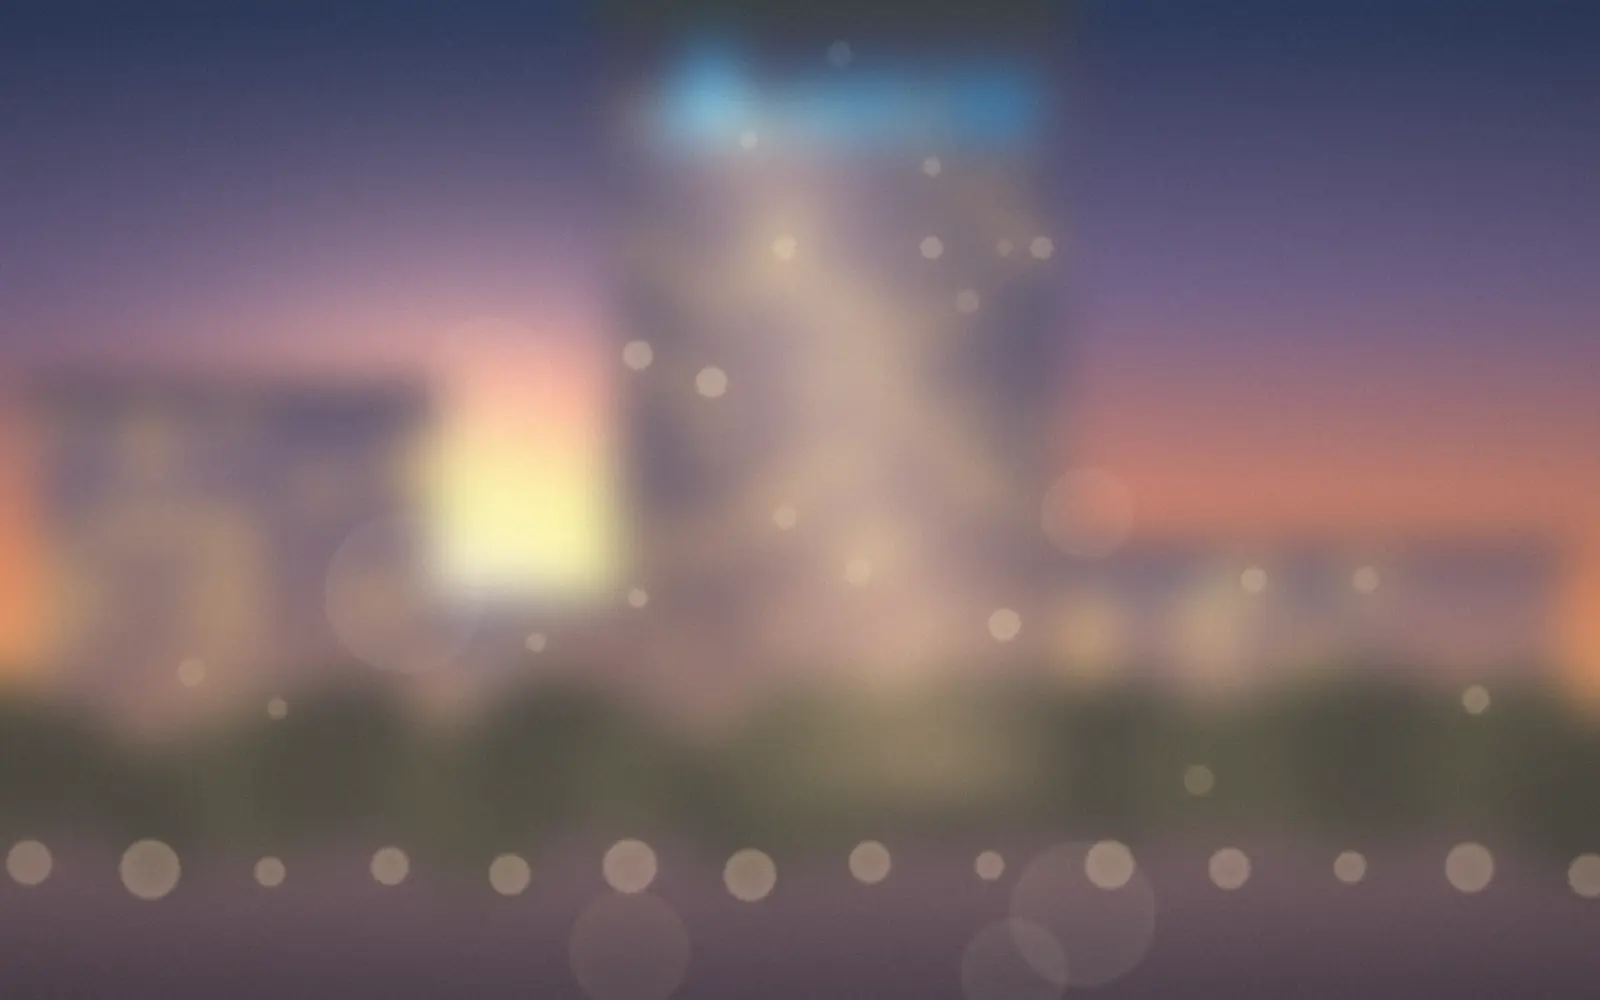
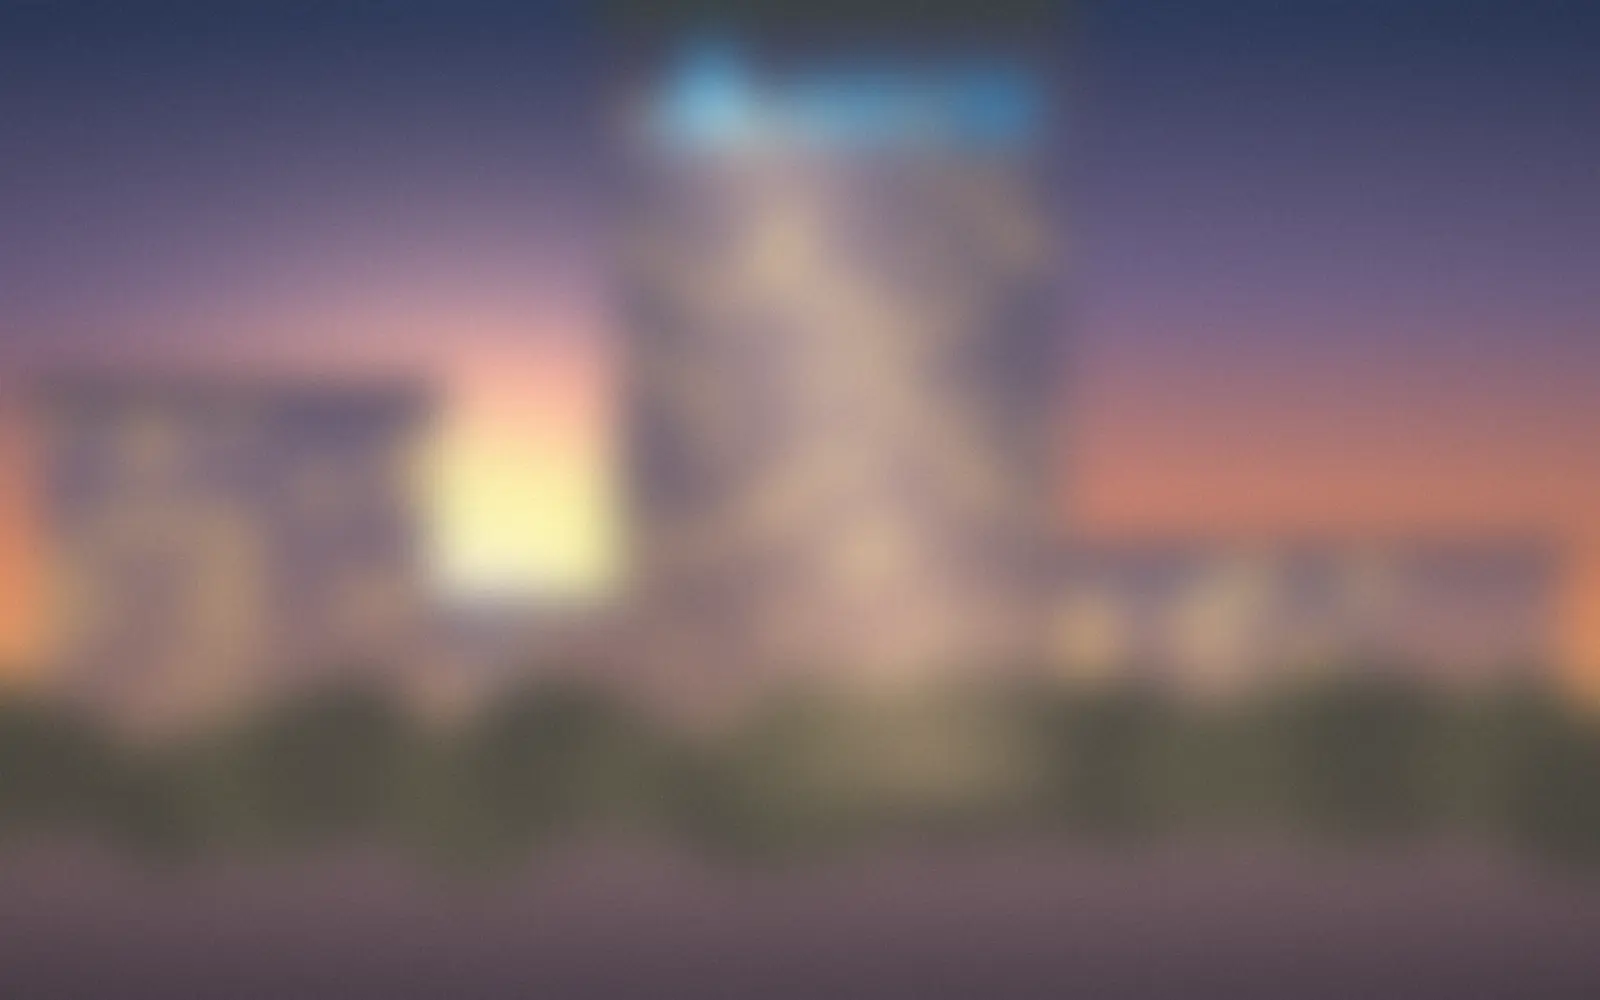
Drop bokeh discs from the Delta dusk and night backdrops, keep the starfield
Claude-Session: https://claude.ai/code/session_012e3ehTCd2ctkDdbYuLX2zr

diff --git a/scripts/render_delta_backdrop.py b/scripts/render_delta_backdrop.py
@@ -211,13 +211,12 @@ for name, t in TIMES.items():
         pd.ellipse([x - 2, y - 2, x + 2, y + 2], fill=tuple(int(v * 255) for v in hexc(c)))
     blurred = to_arr(plate.filter(ImageFilter.GaussianBlur(BLUR)))
     bok = np.zeros_like(blurred)
-    for (x, y, c, a) in lights:
-        if c != t["win"] or rng.random() < 0.12:
-            s = int(rng.uniform(16, 34) * (1.8 if y > H * 0.82 else 1))
-            stamp(bok, x, y, s, hexc(c), a * t["bokeh_alpha"] * 0.55)
-    for _ in range(6 if t["lit"] else 3):  # a few large foreground discs
-        stamp(bok, rng.uniform(0, W), rng.uniform(H * 0.15, H), int(rng.uniform(80, 170)),
-              hexc(rng.choice(t["bokeh"])), t["bokeh_alpha"] * 0.10)
+    # Dusk and night carry no bokeh discs: window and lamp light only survives as the
+    # soft glow left in the blurred plate. Day keeps its few faint foreground discs.
+    if name == "day":
+        for _ in range(3):
+            stamp(bok, rng.uniform(0, W), rng.uniform(H * 0.15, H), int(rng.uniform(80, 170)),
+                  hexc(rng.choice(t["bokeh"])), t["bokeh_alpha"] * 0.10)
     # stars: a gentle starfield that still reads through the defocus (small soft discs)
     skyref = vgrad(t["sky"], H, W)
     for (x, y, a) in stars:
